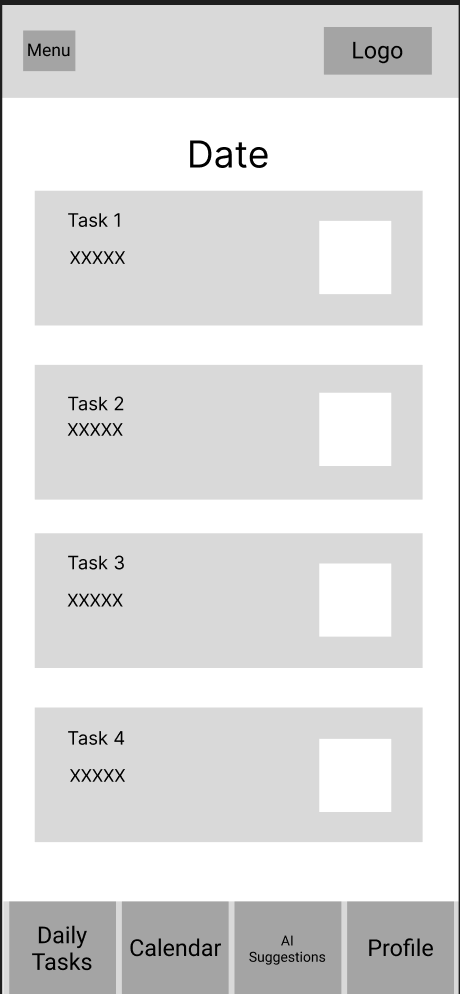
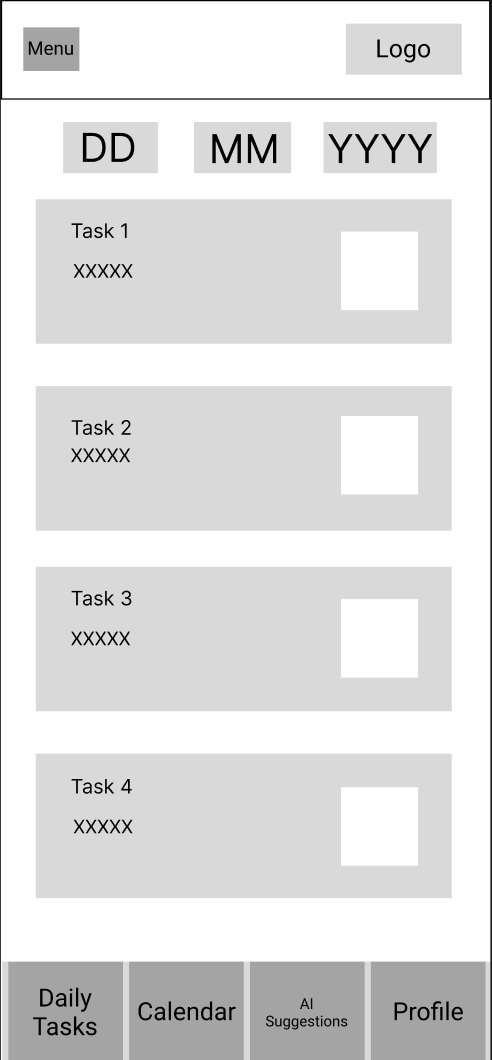
update wireframe and app map

diff --git a/UX-DESIGN.md b/UX-DESIGN.md
@@ -1,7 +1,7 @@
 # User Experience Design
 
 - [app map](https://drive.google.com/file/d/1PRT98SwQDq7Cg2TRRQ7L4PUbS1O74H0Z/view?usp=sharing)
-- [wireframe](https://www.figma.com/design/PSvBhg3W6DRRxdASL4Bamq/Tasklatte?node-id=0-1&t=CjTC0cJKEBsTICyp-1)
+- [wireframe](https://www.figma.com/design/PSvBhg3W6DRRxdASL4Bamq/Tasklatte?node-id=0-1&m=dev&t=uWFulohyiY4h3vvt-1)
 
 ---
 
@@ -100,7 +100,7 @@ Lets users view and edit personal information, academic details, and long-term g
 ![daily task page](./ux-design/dailytask.png)
 
 **Description:**  
-Displays all tasks scheduled for a specific date, helping users track daily progress.
+Displays all tasks scheduled for a specific date, helping users track daily progress. Users can choose the date they want to go at the top of the screen.
 
 ---
 
@@ -224,7 +224,7 @@ Enables users navigate through the menu dropdown on the top-left of the screen t
 
 ---
 
-### 24. Profile Drop Down Page
+### 25. Profile Drop Down Page
 ![Goals page](./ux-design/profiledropdown.png)
 
 **Description:**  
@@ -232,7 +232,7 @@ Enables users navigate through the menu dropdown on the top-left of the screen t
 
 ---
 
-### 25. Change Bio Drop Down Page
+### 26. Change Bio Drop Down Page
 ![Goals page](./ux-design/biodropdown.png)
 
 **Description:**  
@@ -240,7 +240,7 @@ Enables users navigate through the menu dropdown on the top-left of the screen t
 
 ---
 
-### 26. Profile Drop Down Page
+### 27. Profile Drop Down Page
 ![Goals page](./ux-design/profiledropdown.png)
 
 **Description:**  
@@ -248,7 +248,7 @@ Enables users navigate through the menu dropdown on the top-left of the screen t
 
 ---
 
-### 27. All Tasks Drop Down Page
+### 28. All Tasks Drop Down Page
 ![Goals page](./ux-design/alltasksdropdown.png)
 
 **Description:**  
@@ -256,7 +256,7 @@ Enables users navigate through the menu dropdown on the top-left of the screen t
 
 ---
 
-### 28. Calendar Drop Down Page
+### 29. Calendar Drop Down Page
 ![Goals page](./ux-design/calendardropdown.png)
 
 **Description:**  
@@ -264,7 +264,7 @@ Enables users navigate through the menu dropdown on the top-left of the screen t
 
 ---
 
-### 29. Delete Account Confirmation Page
+### 30. Delete Account Confirmation Page
 ![Goals page](./ux-design/deleteaccount.png)
 
 **Description:**  
@@ -272,7 +272,7 @@ Prompts users to confirm whether or not they want to proceed with deleting their
 
 ---
 
-### 30. Change Goals Drop Down Page
+### 31. Change Goals Drop Down Page
 ![Goals page](./ux-design/goalsdropdown.png)
 
 **Description:**  
@@ -280,7 +280,7 @@ Enables users navigate through the menu dropdown on the top-left of the screen t
 
 ---
 
-### 31. Change Major Drop Down Page
+### 32. Change Major Drop Down Page
 ![Goals page](./ux-design/majordropdown.png)
 
 **Description:**  
@@ -288,7 +288,7 @@ Enables users navigate through the menu dropdown on the top-left of the screen t
 
 ---
 
-### 32. Change School Drop Down Page
+### 33. Change School Drop Down Page
 ![Goals page](./ux-design/schooldropdown.png)
 
 **Description:**  
@@ -296,7 +296,7 @@ Enables users navigate through the menu dropdown on the top-left of the screen t
 
 ---
 
-### 33. Change Time-Zone Drop Down Page
+### 34. Change Time-Zone Drop Down Page
 ![Goals page](./ux-design/timezonedropdown.png)
 
 **Description:**  
